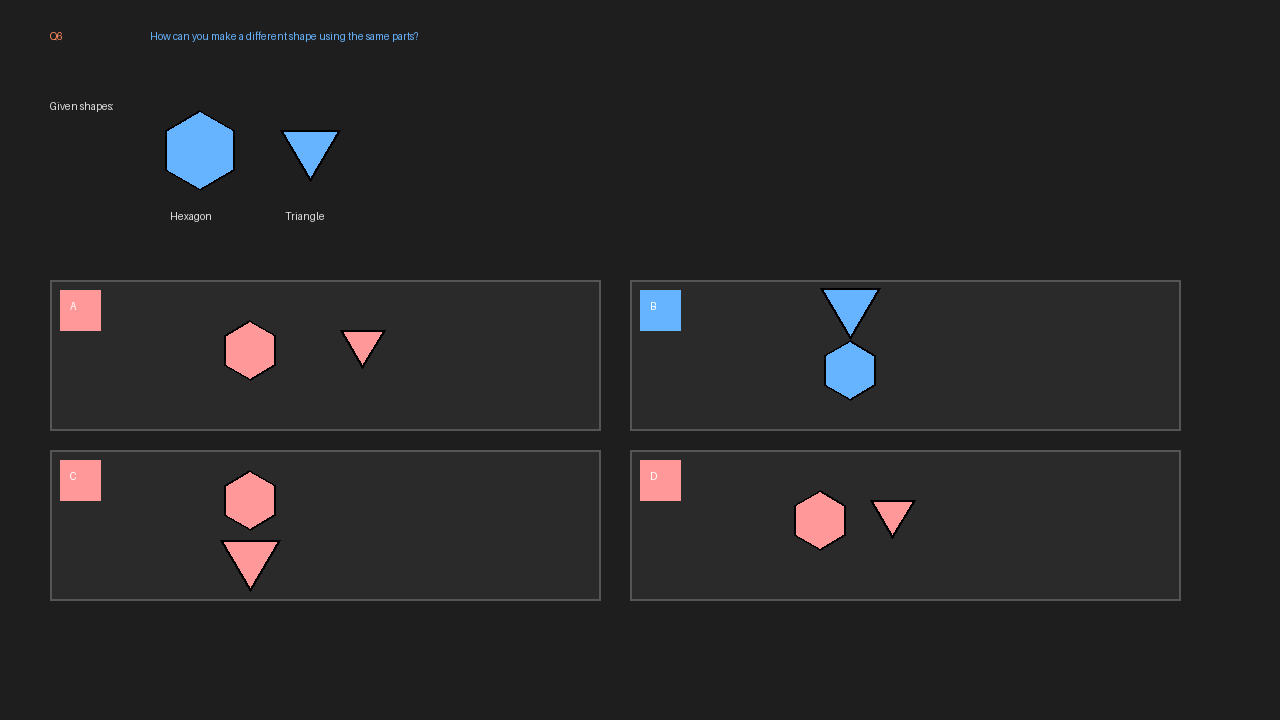
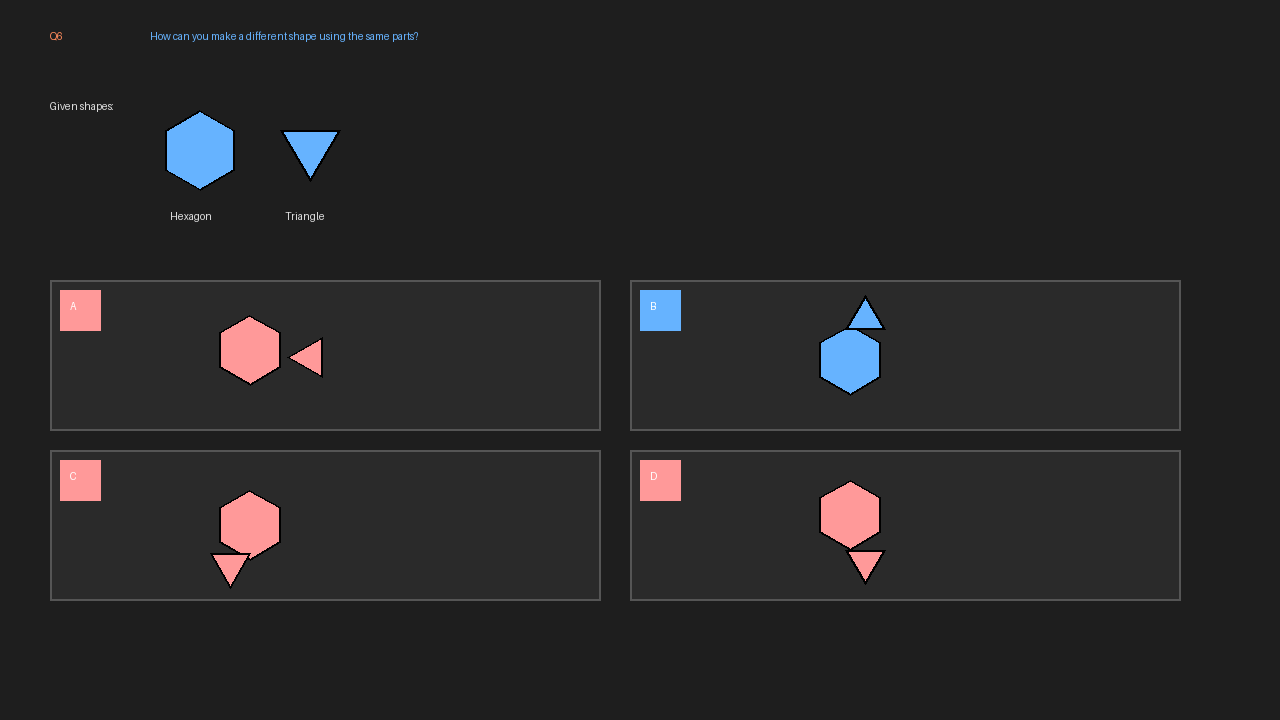
Regenerate PowerPoint with all 31 slides using native shapes

diff --git a/generate-previews.py b/generate-previews.py
@@ -30,15 +30,36 @@ def draw_hexagon(draw, x, y, size, fill_color, outline_color='#000000'):
         points.append((px, py))
     draw.polygon(points, fill=hex_to_rgb(fill_color), outline=hex_to_rgb(outline_color), width=2)
 
-def draw_triangle(draw, x, y, size, fill_color, outline_color='#000000'):
-    """Draw an equilateral triangle pointing up"""
+def draw_triangle(draw, x, y, size, fill_color, outline_color='#000000', rotation=0):
+    """Draw an equilateral triangle pointing up, with optional rotation in degrees"""
     h = size * math.sqrt(3) / 2
+    # Original points (pointing up)
     points = [
-        (x, y),
-        (x + size, y),
-        (x + size/2, y + h)
+        (0, 0),
+        (size, 0),
+        (size/2, h)
     ]
-    draw.polygon(points, fill=hex_to_rgb(fill_color), outline=hex_to_rgb(outline_color), width=2)
+
+    # Rotate if needed
+    if rotation != 0:
+        angle = math.radians(rotation)
+        cos_a, sin_a = math.cos(angle), math.sin(angle)
+        cx, cy = size/2, h/2  # Center point
+        rotated_points = []
+        for px, py in points:
+            # Translate to origin
+            px_centered = px - cx
+            py_centered = py - cy
+            # Rotate
+            new_x = px_centered * cos_a - py_centered * sin_a
+            new_y = px_centered * sin_a + py_centered * cos_a
+            # Translate back
+            rotated_points.append((new_x + cx, new_y + cy))
+        points = rotated_points
+
+    # Translate to position
+    final_points = [(x + px, y + py) for px, py in points]
+    draw.polygon(final_points, fill=hex_to_rgb(fill_color), outline=hex_to_rgb(outline_color), width=2)
 
 def draw_parallelogram(draw, x, y, width, height, skew, fill_color, outline_color='#000000'):
     """Draw a parallelogram"""
@@ -83,41 +104,45 @@ def create_q6_preview():
     draw_triangle(draw, 280, 130, 60, COLORS['shapeCorrect'])
     draw.text((285, 210), "Triangle", fill=hex_to_rgb(COLORS['text']), font=None)
 
-    # Answer A - Transformation 1 (hexagon on left, triangle on right)
+    # Answer A - Triangle attached to right edge of hexagon (rotated 90° right)
     draw.rectangle([50, 280, 600, 430], fill=hex_to_rgb(COLORS['muted']),
                    outline=hex_to_rgb(COLORS['border']), width=2)
     draw.rectangle([60, 290, 100, 330], fill=hex_to_rgb(COLORS['shapeIncorrect']))
     draw.text((70, 300), "A", fill=(255, 255, 255), font=None)
-    draw_hexagon(draw, 250, 350, 30, COLORS['shapeIncorrect'])
-    draw_triangle(draw, 340, 330, 45, COLORS['shapeIncorrect'])
+    # Hexagon centered at 250, 350
+    draw_hexagon(draw, 250, 350, 35, COLORS['shapeIncorrect'])
+    # Triangle rotated 90° and attached to right edge of hexagon
+    # Hexagon right edge is at x=250+35, triangle needs to point right
+    draw_triangle(draw, 285, 340, 40, COLORS['shapeIncorrect'], rotation=90)
 
-    # Answer B - Transformation 2 CORRECT (triangle on top of hexagon, touching not clipping)
+    # Answer B - Triangle attached to TOP flat edge of hexagon (CORRECT)
     draw.rectangle([630, 280, 1180, 430], fill=hex_to_rgb(COLORS['muted']),
                    outline=hex_to_rgb(COLORS['border']), width=2)
     draw.rectangle([640, 290, 680, 330], fill=hex_to_rgb(COLORS['shapeCorrect']))
     draw.text((650, 300), "B", fill=(255, 255, 255), font=None)
     # Hexagon centered
-    draw_hexagon(draw, 850, 370, 30, COLORS['shapeCorrect'])
-    # Triangle positioned above hexagon - bottom edge touching top of hexagon
-    # Hexagon top is at y=370-30=340, triangle height is ~52 (60*sqrt(3)/2)
-    # So triangle should start at y=340-52=288
-    draw_triangle(draw, 820, 288, 60, COLORS['shapeCorrect'])
+    draw_hexagon(draw, 850, 360, 35, COLORS['shapeCorrect'])
+    # Triangle pointing up, attached to top edge
+    # Top of hexagon is roughly at 360-30, triangle base should align
+    draw_triangle(draw, 845, 295, 40, COLORS['shapeCorrect'], rotation=180)
 
-    # Answer C - Transformation 3 (triangle below hexagon)
+    # Answer C - Triangle attached to bottom-left edge (rotated 240°)
     draw.rectangle([50, 450, 600, 600], fill=hex_to_rgb(COLORS['muted']),
                    outline=hex_to_rgb(COLORS['border']), width=2)
     draw.rectangle([60, 460, 100, 500], fill=hex_to_rgb(COLORS['shapeIncorrect']))
     draw.text((70, 470), "C", fill=(255, 255, 255), font=None)
-    draw_hexagon(draw, 250, 500, 30, COLORS['shapeIncorrect'])
-    draw_triangle(draw, 220, 540, 60, COLORS['shapeIncorrect'])
+    draw_hexagon(draw, 250, 525, 35, COLORS['shapeIncorrect'])
+    # Triangle on lower left edge
+    draw_triangle(draw, 215, 545, 40, COLORS['shapeIncorrect'], rotation=240)
 
-    # Answer D - Transformation 4 (side by side touching)
+    # Answer D - Triangle attached to bottom edge (rotated 180°, pointing down)
     draw.rectangle([630, 450, 1180, 600], fill=hex_to_rgb(COLORS['muted']),
                    outline=hex_to_rgb(COLORS['border']), width=2)
     draw.rectangle([640, 460, 680, 500], fill=hex_to_rgb(COLORS['shapeIncorrect']))
     draw.text((650, 470), "D", fill=(255, 255, 255), font=None)
-    draw_hexagon(draw, 820, 520, 30, COLORS['shapeIncorrect'])
-    draw_triangle(draw, 870, 500, 45, COLORS['shapeIncorrect'])
+    draw_hexagon(draw, 850, 515, 35, COLORS['shapeIncorrect'])
+    # Triangle pointing down, attached to bottom
+    draw_triangle(draw, 845, 550, 40, COLORS['shapeIncorrect'], rotation=0)
 
     img.save('preview-q6.png')
     print("✓ Created preview-q6.png")
@@ -140,38 +165,45 @@ def create_q7_preview():
     draw_square(draw, 320, 130, 50, COLORS['shapeCorrect'])
     draw.text((325, 200), "Square", fill=hex_to_rgb(COLORS['text']), font=None)
 
-    # Answer A - Transformation 1 (horizontal arrangement - use same dimensions)
+    # Answer A - Square attached to RIGHT slanted edge of parallelogram
     draw.rectangle([50, 280, 600, 430], fill=hex_to_rgb(COLORS['muted']),
                    outline=hex_to_rgb(COLORS['border']), width=2)
     draw.rectangle([60, 290, 100, 330], fill=hex_to_rgb(COLORS['shapeIncorrect']))
     draw.text((70, 300), "A", fill=(255, 255, 255), font=None)
-    draw_parallelogram(draw, 200, 340, 80, 50, 20, COLORS['shapeIncorrect'])
-    draw_square(draw, 300, 340, 50, COLORS['shapeIncorrect'])
+    # Parallelogram
+    draw_parallelogram(draw, 210, 340, 80, 50, 20, COLORS['shapeIncorrect'])
+    # Square attached to right slanted edge
+    draw_square(draw, 290, 335, 50, COLORS['shapeIncorrect'])
 
-    # Answer B - Transformation 2 (square then parallelogram - use same dimensions)
+    # Answer B - Square attached to LEFT side of parallelogram
     draw.rectangle([630, 280, 1180, 430], fill=hex_to_rgb(COLORS['muted']),
                    outline=hex_to_rgb(COLORS['border']), width=2)
     draw.rectangle([640, 290, 680, 330], fill=hex_to_rgb(COLORS['shapeIncorrect']))
     draw.text((650, 300), "B", fill=(255, 255, 255), font=None)
-    draw_square(draw, 780, 340, 50, COLORS['shapeIncorrect'])
-    draw_parallelogram(draw, 850, 340, 80, 50, 20, COLORS['shapeIncorrect'])
+    # Parallelogram
+    draw_parallelogram(draw, 810, 340, 80, 50, 20, COLORS['shapeIncorrect'])
+    # Square attached to left edge
+    draw_square(draw, 760, 340, 50, COLORS['shapeIncorrect'])
 
-    # Answer C - Transformation 3 CORRECT (stacked vertically - MUST USE SAME DIMENSIONS)
+    # Answer C - Square attached to BOTTOM edge of parallelogram (CORRECT)
     draw.rectangle([50, 450, 600, 600], fill=hex_to_rgb(COLORS['muted']),
                    outline=hex_to_rgb(COLORS['border']), width=2)
     draw.rectangle([60, 460, 100, 500], fill=hex_to_rgb(COLORS['shapeCorrect']))
     draw.text((70, 470), "C", fill=(255, 255, 255), font=None)
-    # Use EXACT same dimensions as given shapes: parallelogram (80, 50, 20) and square (50)
+    # Parallelogram on top
     draw_parallelogram(draw, 240, 500, 80, 50, 20, COLORS['shapeCorrect'])
-    draw_square(draw, 260, 560, 50, COLORS['shapeCorrect'])
+    # Square attached to bottom edge (aligned with parallelogram bottom)
+    draw_square(draw, 260, 550, 50, COLORS['shapeCorrect'])
 
-    # Answer D - Transformation 4 (diagonal/offset arrangement - use same dimensions)
+    # Answer D - Square attached to TOP edge of parallelogram
     draw.rectangle([630, 450, 1180, 600], fill=hex_to_rgb(COLORS['muted']),
                    outline=hex_to_rgb(COLORS['border']), width=2)
     draw.rectangle([640, 460, 680, 500], fill=hex_to_rgb(COLORS['shapeIncorrect']))
     draw.text((650, 470), "D", fill=(255, 255, 255), font=None)
-    draw_square(draw, 780, 515, 50, COLORS['shapeIncorrect'])
-    draw_parallelogram(draw, 850, 520, 80, 50, -20, COLORS['shapeIncorrect'])
+    # Square on top
+    draw_square(draw, 840, 510, 50, COLORS['shapeIncorrect'])
+    # Parallelogram attached below
+    draw_parallelogram(draw, 840, 560, 80, 50, 20, COLORS['shapeIncorrect'])
 
     img.save('preview-q7.png')
     print("✓ Created preview-q7.png")
